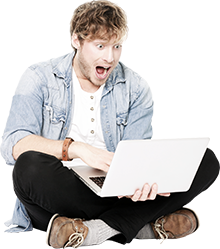
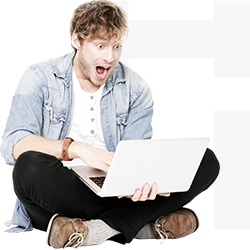
section_12

diff --git a/src/html/section-12.html b/src/html/section-12.html
@@ -1,56 +1,61 @@
-<div class="only-now section-container container">
-    <div class="only-now-header">
-        <div class="image">
-            <p class="image__bg-text">IT</p>
-            <img src="images/480px/original/surprise.png" alt="" class="image__img">
-        </div>
+<section class="section container">
+        <div class="only-now-header">
+        <img src="images/480px/original/surprise.png" alt="" class="only-now-image">
         <div>
-        <p class="only-now__text-up ">Обычно обучение у Александра Лущенко стоит  от 815 грн за час… </p>
+        <p class="slash-note only-now__text-up">Обычно обучение у Александра Лущенко стоит  от 815 грн за час… </p>
+        <div class="section-title">
 
-        <h3 class="only-now-title"> <span class="only-now-title_1"> &#91; однако только</span> <span class="only-now-title_2">сейчас &#93; </span>  </h3>
-    
-        <p class="only-now__text-down">У тебя есть возможность получить  1,5 часа пошагового обучения веб-разработке с Нуля до результатов... всего за 399 грн!</p>
+        <div class="section-heading_block">
+                <h2 class="section-heading section-heading__dark"> <span class="heading-black only-now-title">однако только сейчас</span></h2>
         </div>
-    </div>
 
-    <div class="only-now-description">
-    <h4 class="only-now-title__list">И сейчас ты можешь либо сходить купить  продуктов на ужин…  или:</h4>
+        <p class="header__content sub-heading">У тебя есть возможность получить  1,5 часа пошагового обучения веб-разработке с Нуля до результатов... всего за 399 грн!</p>
+        </div>
+        </div>
+        </div>        
+        
+        <div class="only-now-description">
 
-    <ul class="only-now-list only-now-section">
-        <li class="only-now-item">
-            
-                <h5 class="list-heading">Сразу получить навыки в IT</h5>
-                <p class="list-sub-heading">Которые тебе будут нужны в будущем для хорошего заработка в $; </p>
-            
-        </li>
-        <li class="only-now-item">
-            
-                <h5 class="only-now-item__title">Открыть, насколько легко </h5>
-                <p class="only-now-item__text">Которые ты видишь в Интернете  и как ты сможешь делать такие же на своем компьютере</p>
-            
-        </li>
-        <li class="only-now-item">
-            
-                <h5 class="only-now-item__title">Создать себе первый сайт  в портфолио</h5>
-                <p class="only-now-item__text">Чтобы иметь преимущество перед другими соискателями на любой проект или работу</p>
-            
-        </li>
-        <li class="only-now-item">
-            
-                <h5 class="only-now-item__title">Обрести уверенность</h5>
-                <p class="only-now-item__text">Что ты можешь хорошо зарабатывать в востребованной профессии без необходимости быть гением или задротом</p>
-            
-        </li>
-        <li class="only-now-item">
-            
-                <h5 class="only-now-item__title">Получить нужные инструменты</h5>
-                <p class="only-now-item__text">Для старта и развития карьеры  web-разработчика; </p>
-            
-        </li>
-        <li class="only-now-item">
-                <h5 class="only-now-item__title">Перестань откладывать свое будущее</h5>
-                <p class="only-now-item__text">И свой большой прорыв, начни  испытывать гордость от того, что ты действуешь и меняешь свою жизнь к лучшему</p>
-        </li>
-    </ul>
-  </div>
-</div>
+        <h2 class="only-now-title__list">И сейчас ты можешь либо сходить купить  продуктов на ужин…  или:</h2>
+
+        <div class="only-now-list-description">
+        <ul class="only-now-list">
+                        <li class="list_numbers-3">
+                            
+                                <h3 class="list-heading">Сразу получить навыки в IT</h3>
+                                <p class="list-sub-heading">Которые тебе будут нужны в будущем для хорошего заработка в $; </p>
+                            
+                        </li>
+                        <li class="list_numbers-3">
+                            
+                                <h3 class="list-heading">Открыть, насколько легко </h3>
+                                <p class="list-sub-heading">Которые ты видишь в Интернете  и как ты сможешь делать такие же на своем компьютере</p>
+                            
+                        </li>
+                        <li class="list_numbers-3">
+                            
+                                <h3 class="list-heading">Создать себе первый сайт  в портфолио</h3>
+                                <p class="list-sub-heading">Чтобы иметь преимущество перед другими соискателями на любой проект или работу</p>
+                            
+                        </li>
+                        <li class="list_numbers-3">
+                            
+                                <h3 class="list-heading">Обрести уверенность</h3>
+                                <p class="list-sub-heading">Что ты можешь хорошо зарабатывать в востребованной профессии без необходимости быть гением или задротом</p>
+                            
+                        </li>
+                        <li class="list_numbers-3">
+                            
+                                <h3 class="list-heading">Получить нужные инструменты</h3>
+                                <p class="list-sub-heading">Для старта и развития карьеры  web-разработчика; </p>
+                            
+                        </li>
+                        <li class="list_numbers-3">
+                                <h3 class="list-heading">Перестань откладывать свое будущее</h3>
+                                <p class="list-sub-heading">И свой большой прорыв, начни  испытывать гордость от того, что ты действуешь и меняешь свою жизнь к лучшему</p>
+                        </li>
+                    </ul>
+                </div>
+        </div>
+    
+</section>

diff --git a/src/sass/layouts/section-12.scss b/src/sass/layouts/section-12.scss
@@ -1,214 +1,62 @@
-.only-now-section {
-  width: 300px;
-  margin: 0 auto;
+.only-now-image {
+  display: block;
+  margin: 50px auto;
 }
 
-.image {
-  position: relative;
-}
-  
-.image__bg-text {
-  font-family: $main-font;
-  font-weight: 800;
-  font-size: 226px;
-  color: #f7f7f7;
-  transform: rotate(90deg);
-  position: relative;
-  bottom: -220px;
-  left: 15px;
-}
-  
-.image__img {
-  position: relative;
-  margin: 0 45px;
-  display: block;
-} 
-  
 .only-now__text-up {
-  font-family: $main-font;
-  font-weight: 600;
-  font-size: $main-font-size;
-  color: $accent-txt-color;
-  margin: 45px 0 25px;
+  width: 357px;
+  margin: 40px auto 25px;
 }
-  
-.only-now__text-up::before {
-  display: block;
-  content: '';
-  height: 12px;
-  width: 2px;
-  background-color: $first-bg-line-color;
-  transform: skew(-30deg);
-  position: relative;
-  right: 18px;
-  top: 16px;
-}
-  
-.only-now-title {
-  font-family: $main-font;
-  font-weight: 800;
-  font-size: $main-font-size; 
-  color: $main-white-color; 
-  text-transform: uppercase;  
-  text-align: center;
-  margin: 25px auto 25px;
-  width: 230px;
-}
-  
-.only-now__text-down {
-  font-family: $main-font;
-  font-weight: 600;
-  font-size: $main-font-size;
-  color: $first-bg-line-color; 
-  width: 250px;  
-  margin: 0 auto;
-}
-  
-.only-now__text-down::before {
-  display: block;
-  content: '';
-  height: 2px;
-  width: 20px;
-  background-color: $first-bg-line-color;
-  position: relative;
-  right: 40px;
-  top: 12px;
-}
-  
+
 .only-now-title__list {
   font-family: $main-font;
   font-weight: 800;
   font-size: $main-font-size;
-  margin: 60px 0 35px;
+  margin: 60px auto 35px;
   text-transform: uppercase;
-}
-  
-.only-now-list {
-  @extend %list;
-}
-  
-.only-now-item {
-  list-style: none;
-  position: relative;
-  counter-reset: none;
-  counter-increment: b;
-  margin: 0 0 30px 20px;
-  
-  &:before {
-    position: absolute;
-    @include pseudo($display: block, $content: '[ 00' counter(b) ' ]');
-    width: 48px;
-    height: 9px;
-    background-color: $accent-txt-color;
-    font-family: $main-font;
-    font-weight: 800;
-    @include font-settings(13px, 100%);
-    color: #fff;
-    text-align: center;
-    top: 25px;
-    left: -40px;
-    transform: rotate(-90deg);
-  }
-
-  &:last-child {
-    margin-bottom: 54px;
-  }
-}
-  
-.only-now-item {
-  margin-bottom: 30px; 
-  font-family: $main-font;
-  font-size: $main-font-size;
-}
-  
-.only-now-item__title {
-  margin-bottom: 10px;
-  font-weight: 600;
-  font-size: $main-font-size;
+  width: 365px;
 }
 
-.only-now-item__text {
-  font-weight: 400;  
+.only-now-list-description {
+  width: 315px;
+  margin: 0 auto;
 }
-  
-  
+
 @media screen and (min-width: 768px) {
-  
+  .only-now-header {
+    display: grid;
+    grid-template-columns: 50% 50%;
+  }
+
+  .only-now-image {
+    margin-right: 55px;
+  }
 
   .only-now__text-up {
-    font-size: 8px;
-    width: 145px;
-    line-height: $slider-numb-line-height;
-    margin: 25px 0  0 20px;
-  }
-
-  .only-now-header {
-    display: grid; 
-    grid-template-columns: 50% 50%;
-  } 
-
-  .image__bg-text {
-    bottom: -190px;
-    left: 40px;
-  }
-
-  .only-now-title {
-    font-size: 27px;
-    width: 275px;
-    line-height: 34px;
-    text-align: left;
-    margin-left: 0;
-  }
-
-  .only-now-title_1 {
-    background-color: $first-bg-line-color;
-  }
-
-  .only-now-title_2 {
-    background-color: $first-bg-line-color;
-  }
-
-  .only-now__text-down {
-    margin-left: 40px;
+    width: 160px;
+    margin: 48px 17px 25px;
   }
 
   .only-now-description {
     width: 100%;
     display: grid;
     grid-template-columns: 18% 82%;
-    margin-top: 60px;
-    // padding-top: 53px;
-  }
-
-  .only-now-item::before {
-    width: 21px;
-    height: 8px;
-    font-size: 5.61px;
-    top: 10px;
-    left: -25px;
   }
 
   .only-now-title__list {
-    line-height: $main-line-height;
-    font-size: $secondary-font-size;
+    width: 110px;
+    margin-top: 0;
+  }
+
+  .only-now-list-description {
+    width: 100%;
   }
 
   .only-now-list {
     display: grid;
-    grid-template-columns: 28% 28% 28%;
+    grid-template-columns: 26% 26% 26%;
     grid-column-gap: 47px;
-    grid-row-gap: 25px;
-    margin: 50px 0 50px 30px;
+    margin: 0;
     padding: 0 0 0 45px;
-  }
-
-  .only-now-item__title {
-    font-size: 8px;
-    line-height: $slider-numb-line-height;
-  }
-
-  .only-now-item__text {
-    font-size: 8px;
-    line-height: $slider-numb-line-height;
   }
 }
